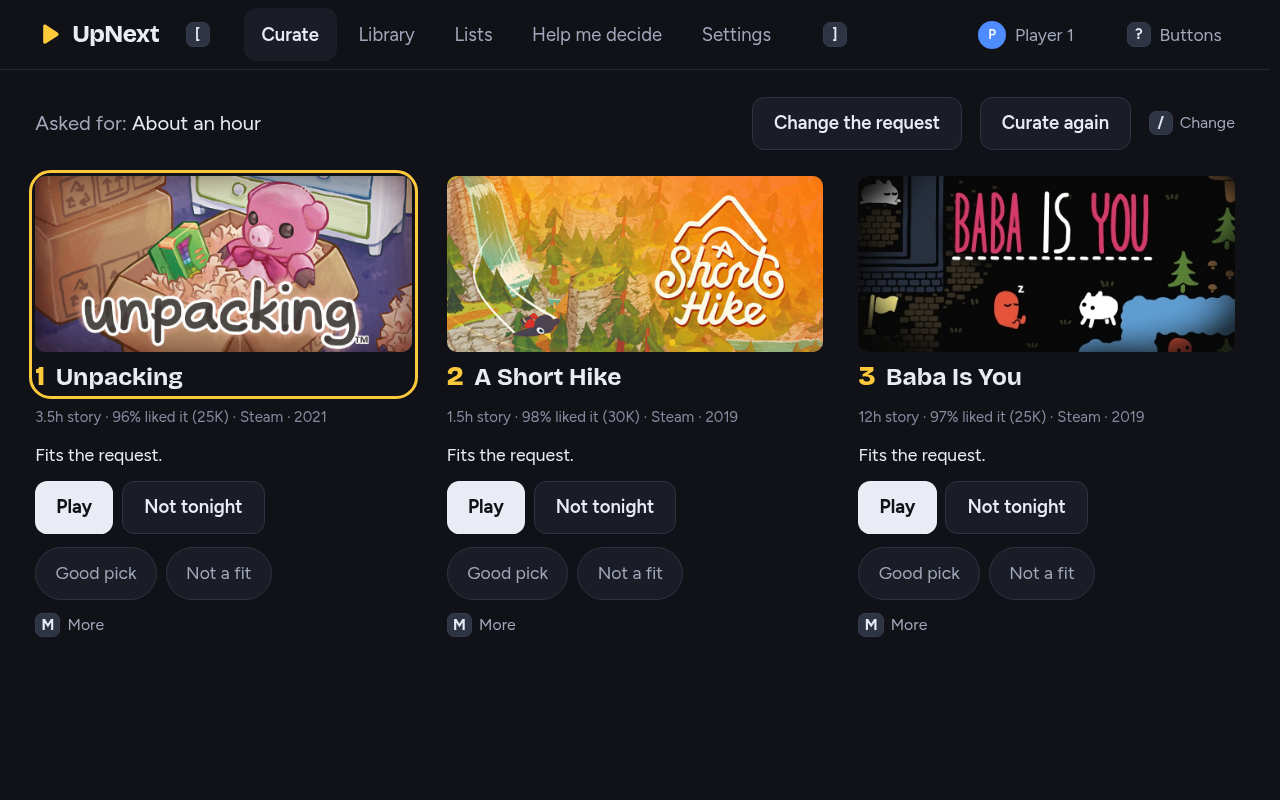
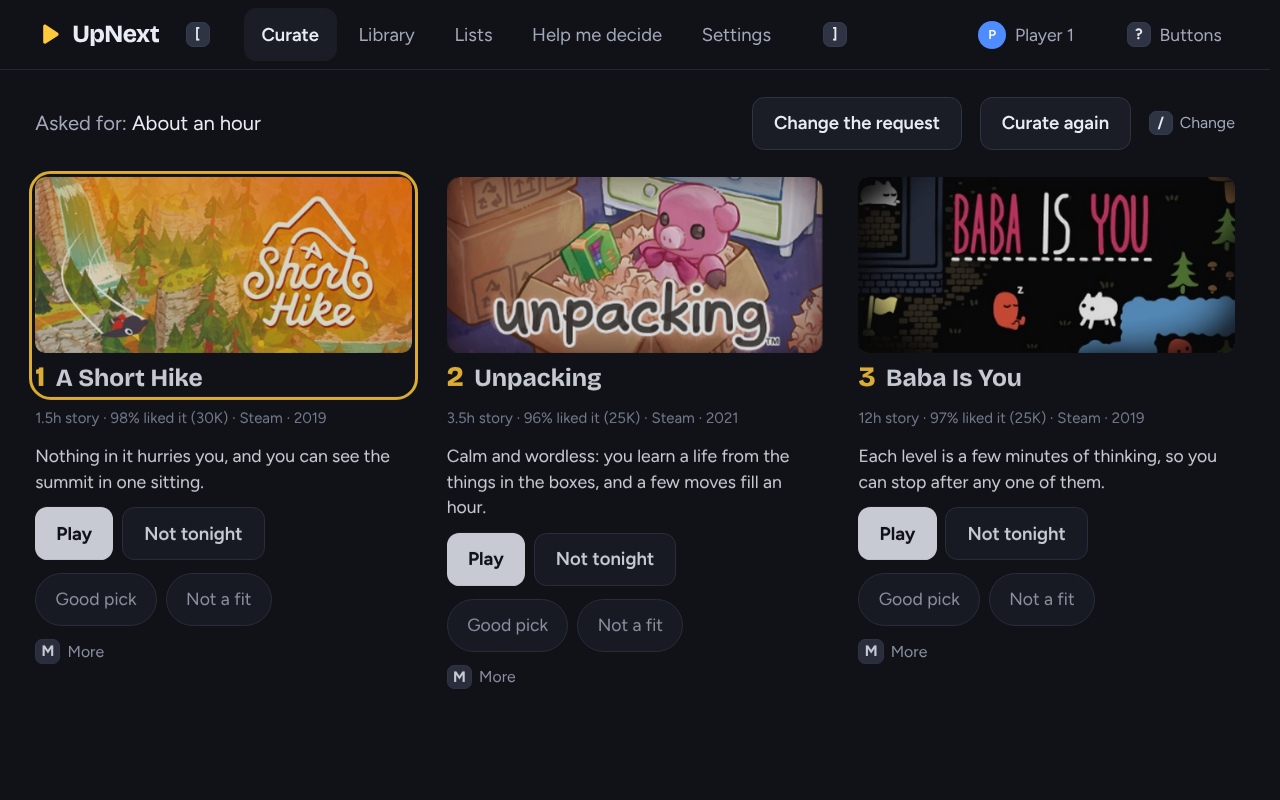
Give the screenshots' picks the reasons a model would write
The README, site and store screenshots are taken with the end-to-end
test's fake model, which gave every pick the placeholder reason "Fits the
request.", so every card in them carried that line. The fake model now
writes one sentence for each game the screenshots show, both screenshots
are taken again, and the smoke test checks for the reason the server
stored rather than for the placeholder. The README shot is 50 pixels
taller so the cards' buttons still fit under the two-line reasons.

diff --git a/web/e2e/smoke.spec.ts b/web/e2e/smoke.spec.ts
@@ -10,7 +10,9 @@ test('pick, open a game, mark it beaten', async ({ page, request }) => {
   const lineup = page.getByRole('region', { name: 'Lineup' })
   const opens = lineup.getByRole('button', { name: /^Open / })
   await expect(opens).toHaveCount(3)
-  await expect(lineup.getByText('Fits the request.').first()).toBeVisible()
+  // Each card shows the model's reason for that pick.
+  const [latest] = await (await request.get('/api/v1/picks/history?limit=1')).json()
+  await expect(lineup.getByText(latest.picks[0].reason).first()).toBeVisible()
 
   // The first pick with an ending, so "Beat it" is on its menu.
   let marked: string | null = null
@@ -402,8 +404,8 @@ test('roll the dice, then curate around it; a quick look on a pick', async ({ pa
   await cards.first().getByRole('button', { name: 'Curate around this' }).click()
   await expect(page.getByLabel('What are you in the mood for?')).toHaveValue(`Games like ${second}`)
   await expect(cards).toHaveCount(3)
-  await expect(lineup.getByText('Fits the request.').first()).toBeVisible()
   history = await (await request.get('/api/v1/picks/history?limit=1')).json()
+  await expect(lineup.getByText(history[0].picks[0].reason).first()).toBeVisible()
   expect(history[0].prompt).toBe(`Games like ${second}`)
   expect(history[0].picks.map((p: { name: string }) => p.name)).not.toContain(second)
 

diff --git a/web/e2e/readme-shot.spec.ts b/web/e2e/readme-shot.spec.ts
@@ -2,7 +2,7 @@ import { expect, test, type Locator } from '@playwright/test'
 import { fileURLToPath } from 'node:url'
 
 // The README's screenshot, docs/images/pick.png: the Pick page after
-// Curate on the mock library, at 1280 px and 1.25x, so 1600 × 1075. It runs
+// Curate on the mock library, at 1280 px and 1.25x, so 1600 × 1125. It runs
 // only with UPNEXT_README_SHOT=1, on a machine that reaches Steam's image
 // servers: the mock library's games are real ones, so their covers load from
 // there, and CI and development containers often can't reach them. It fails rather than save
@@ -40,7 +40,7 @@ test.describe('big screen', () => {
   })
 })
 
-test.use({ viewport: { width: 1280, height: 860 }, deviceScaleFactor: 1.25 })
+test.use({ viewport: { width: 1280, height: 900 }, deviceScaleFactor: 1.25 })
 
 test('the README screenshot', async ({ page }) => {
   test.skip(!process.env.UPNEXT_README_SHOT, 'set UPNEXT_README_SHOT=1 to take docs/images/pick.png again')

diff --git a/site/index.html b/site/index.html
@@ -61,7 +61,7 @@
         <rect width="200" height="100" fill="url(#halo)"/>
       </svg>
       <figure class="shot">
-        <img src="images/pick.webp" fetchpriority="high" width="1600" height="1075" alt="UpNext's Pick page. The request reads: about an hour, something calm with a bit of story. Below it, a lineup of three games, Unpacking, Citizen Sleeper and Return to Monkey Island, each with its length, how well players liked it, and what people say about it.">
+        <img src="images/pick.webp" fetchpriority="high" width="1600" height="1125" alt="UpNext's Pick page. The request reads: about an hour, something calm with a bit of story. Below it, a lineup of three games, Unpacking, Citizen Sleeper and Return to Monkey Island, each with its length, how well players liked it, why it fits the request, and what people say about it.">
       </figure>
       <div class="wrap below">
         <ul class="facts mono" aria-label="Runs on">

diff --git a/README.md b/README.md
@@ -6,7 +6,7 @@ Website: [upnext.games](https://upnext.games)
 
 UpNext gathers your game libraries from Steam, Epic, GOG, Amazon, the EA app and Ubisoft Connect into one list and looks up what each game is like. Tell it what you're in the mood for ("about an hour, something calm with a bit of story") and it suggests a few games from your backlog that fit, with the reasons. The suggestions come from an AI you choose: your own Claude or ChatGPT subscription, an API key, or a model on your own machine. Without an AI, UpNext ranks your games itself.
 
-<img src="docs/images/pick.png" width="800" alt="The Pick page: a request, and a lineup of three games with what players say about each">
+<img src="docs/images/pick.png" width="800" alt="The Pick page: a request, and a lineup of three games with why each fits and what players say about it">
 
 *The Pick page on the made-up library from `upnext mock-library`. The cover art belongs to the games' publishers.*
 
